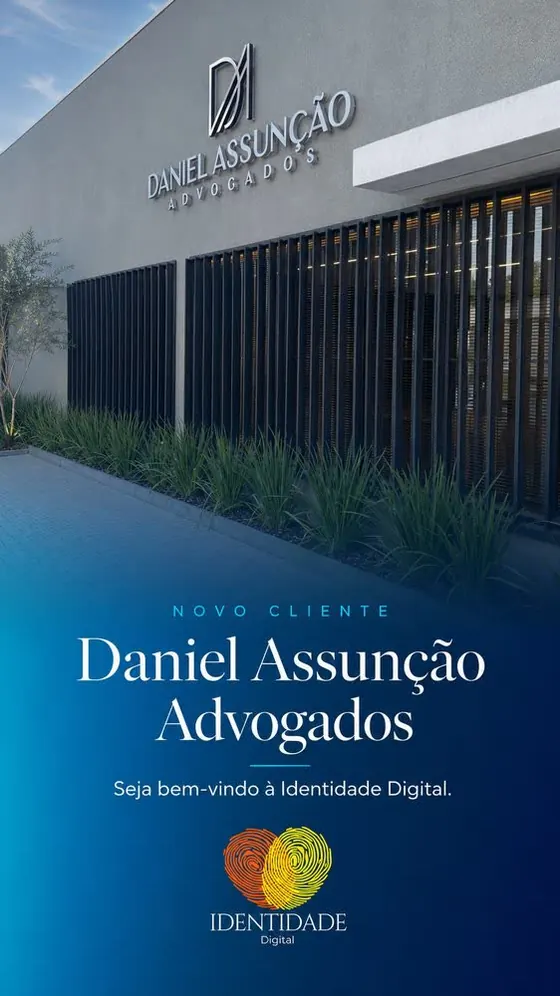
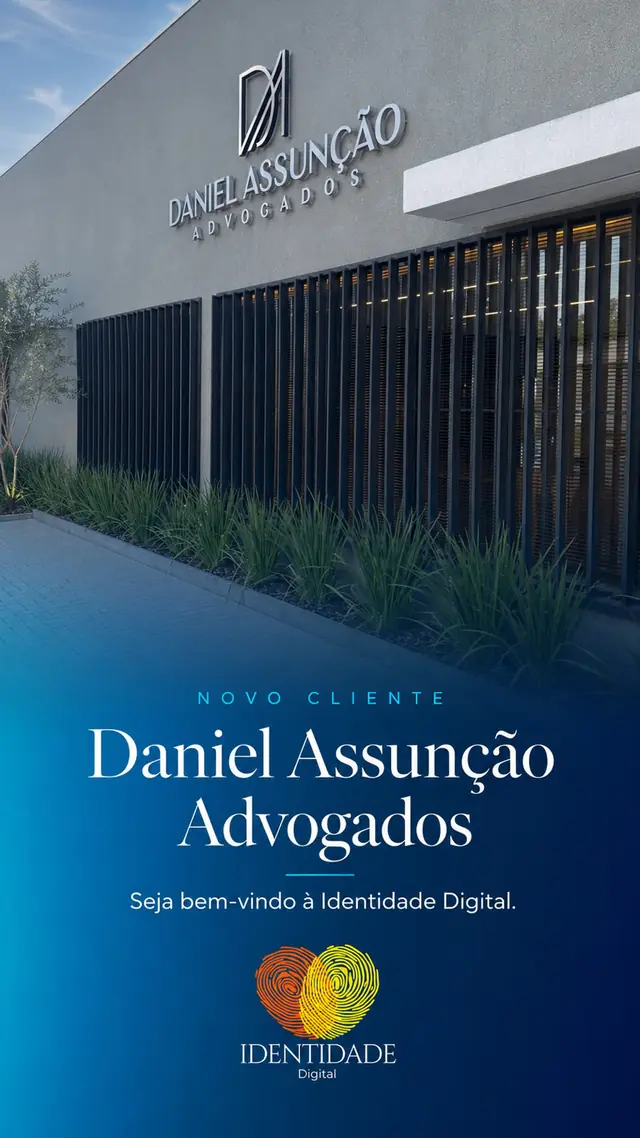
Portfólio: artes de Daniel Assunção, Taynara e Mercadão em maior resolução
Regera as três artes a partir dos originais de 900px (q75) em duas
larguras, 640 e 900, e serve com srcset/sizes no card e no modal do
projeto. O desktop em tela comum continua baixando a de 640px.

diff --git a/index.html b/index.html
@@ -781,6 +781,11 @@ const IMG = {
   narla:"/novo/narla-cover.webp", narlaLogo:"/novo/narla-logo.webp", narlaAv:"/novo/narla-av.webp", narlaCasa1:"/novo/narla-casa1.webp", narlaCasa2:"/novo/narla-casa2.webp"
 };
 const VID = { gorelioStory:"/novo/story-gorelio.mp4", distribaReveal:"/novo/distriba-reveal.mp4" };
+// Versões de 900px; IMG guarda a de 640px. srcset() devolve os atributos só para quem tem as duas.
+const IMG_900 = {
+  dassuncao:"/novo/cli-daniel-assuncao-advogados-900.webp", taynara:"/novo/cli-taynara-carvalho-ebm-900.webp", mercadao:"/novo/cli-mercadao-dos-oculos-900.webp"
+};
+const srcset=(k,sizes)=>IMG_900[k]?` srcset="${IMG[k]} 640w, ${IMG_900[k]} 900w" sizes="${sizes}"`:'';
 document.querySelectorAll('[data-img]').forEach(el=>{el.src=IMG[el.dataset.img]});
 
 const WA='5564993380223';
@@ -997,7 +1002,7 @@ let curFilter='all';
   f.addEventListener('click',e=>{const b=e.target.closest('.fchip');if(!b)return;applyFilter(b.dataset.f)});
   const g=document.getElementById('pGrid');
   g.innerHTML=PROJECTS.map(p=>`<button type="button" class="gb card rv" data-id="${p.id}" data-cats="${p.cats.join(' ')}" aria-label="Abrir projeto ${p.name}">
-    <div class="thumb"><img src="${IMG[p.cover]}" alt="" loading="lazy"><span class="badge">${p.badge}</span>${p.video?'<span class="play"><svg viewBox="0 0 24 24"><path d="M8 5v14l11-7z"/></svg></span>':''}</div>
+    <div class="thumb"><img src="${IMG[p.cover]}"${srcset(p.cover,'(max-width:768px) 92vw, (max-width:1100px) 46vw, 400px')} alt="" loading="lazy"><span class="badge">${p.badge}</span>${p.video?'<span class="play"><svg viewBox="0 0 24 24"><path d="M8 5v14l11-7z"/></svg></span>':''}</div>
     <div class="body"><span class="seg">${p.seg}</span><h3>${p.name}</h3><div class="tags">${p.tags.map(t=>`<span>${t}</span>`).join('')}</div></div></button>`).join('');
   g.addEventListener('click',e=>{const c=e.target.closest('.card');if(c)openProject(c.dataset.id)});
 })();
@@ -1020,7 +1025,7 @@ function openProject(id){
   document.getElementById('pmLink').innerHTML=p.link?`<div class="btn-border-wrap"><a class="pill" href="${p.link}" target="_blank" rel="noopener">${p.linkLabel||'Ver site no ar'}</a></div>`:'';
   const main=document.getElementById('pmMain'),th=document.getElementById('pmThumbs');
   const show=k=>{const m=p.media[k];
-    main.innerHTML=m.video?`<video src="${VID[m.video]}" poster="${IMG[m.poster]}" autoplay muted loop playsinline controls></video>`:`<img src="${IMG[m.img]}" alt="${p.name}">`;
+    main.innerHTML=m.video?`<video src="${VID[m.video]}" poster="${IMG[m.poster]}" autoplay muted loop playsinline controls></video>`:`<img src="${IMG[m.img]}"${srcset(m.img,'(max-width:1024px) 94vw, 560px')} alt="${p.name}">`;
     th.querySelectorAll('button').forEach((b,j)=>b.classList.toggle('on',j===k))};
   th.innerHTML=p.media.length>1?p.media.map((m,k)=>`<button type="button" aria-label="Mídia ${k+1}"><img src="${IMG[m.img||m.poster]}" alt=""></button>`).join(''):'';
   th.querySelectorAll('button').forEach((b,k)=>b.addEventListener('click',()=>show(k)));
